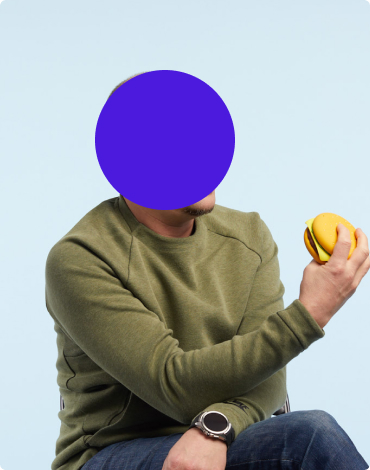
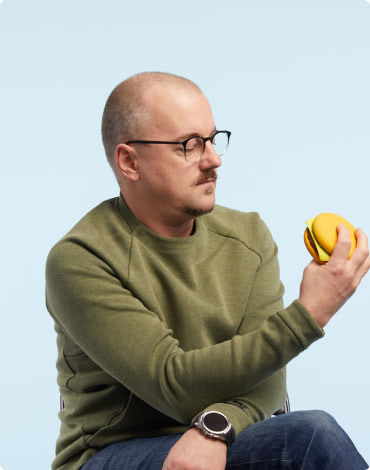
finish v2

Changed region(s): [[0.2378, 0.1489, 0.6541, 0.4468]]

diff --git a/assets/css/global.css b/assets/css/global.css
@@ -968,6 +968,18 @@ h1, h2, h3, h4, h5, h6, p, li {
         margin-top: 490px; } }
   .craigs .craig-2 {
     position: relative; }
+    .craigs .craig-2:after {
+      position: absolute;
+      display: block;
+      width: 100%;
+      height: 100%;
+      top: 0%;
+      left: 0%;
+      content: '';
+      background: url("../img/dot.svg") no-repeat;
+      background-size: 100% 100%; }
+    .craigs .craig-2:hover:after {
+      display: none; }
     .craigs .craig-2 [class*="blob"] {
       bottom: -120px;
       right: 0; }

diff --git a/assets/scss/_homepage.scss b/assets/scss/_homepage.scss
@@ -76,7 +76,23 @@ h1, h2, h3, h4, h5, h6, p  {
 	}
 
 	.craig-2 {
-		position: relative;
+    position: relative;
+    
+    &:after {
+      position: absolute;
+      display: block;
+      width: 100%;
+      height: 100%;
+      top: 0%;
+      left: 0%;
+      content: '';
+      background: url('../img/dot.svg') no-repeat;
+      background-size: 100% 100%;
+    }
+
+    &:hover:after {
+      display: none;
+    }
 
 		[class*="blob"] {
 			bottom: -120px;
